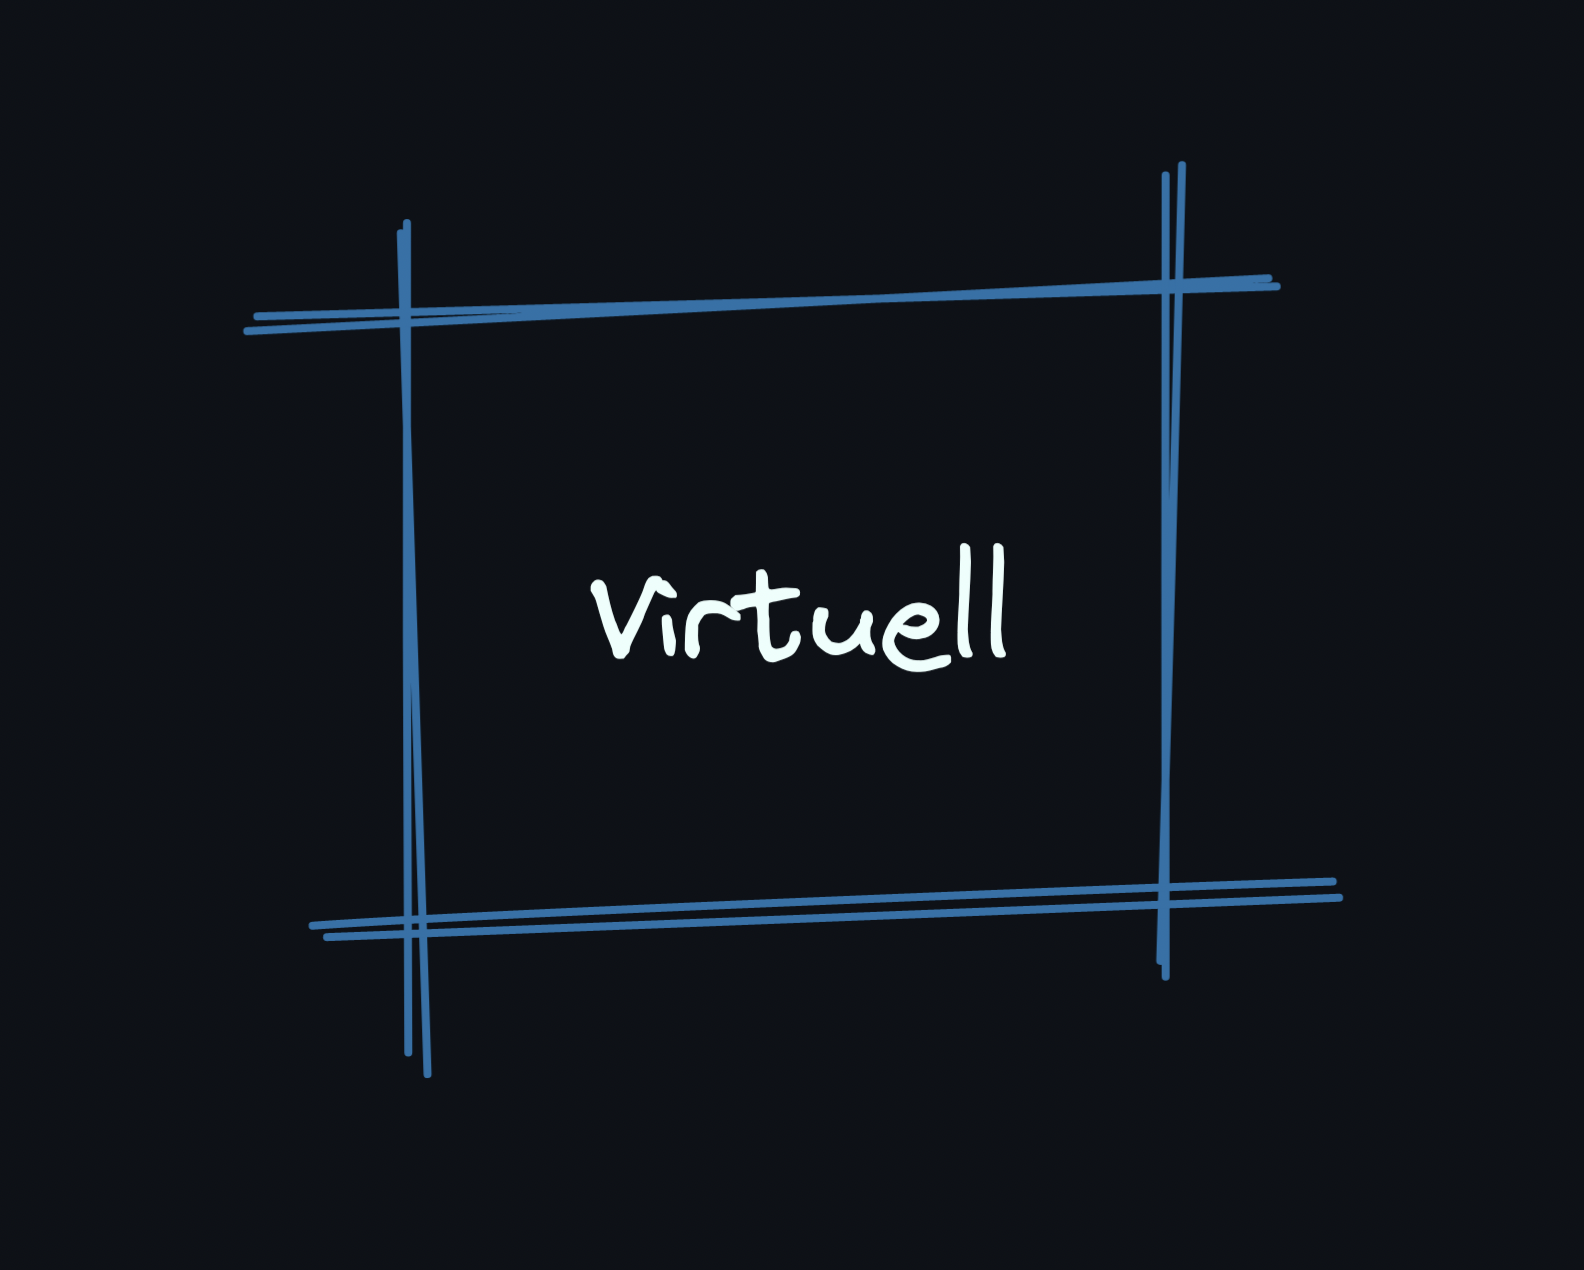
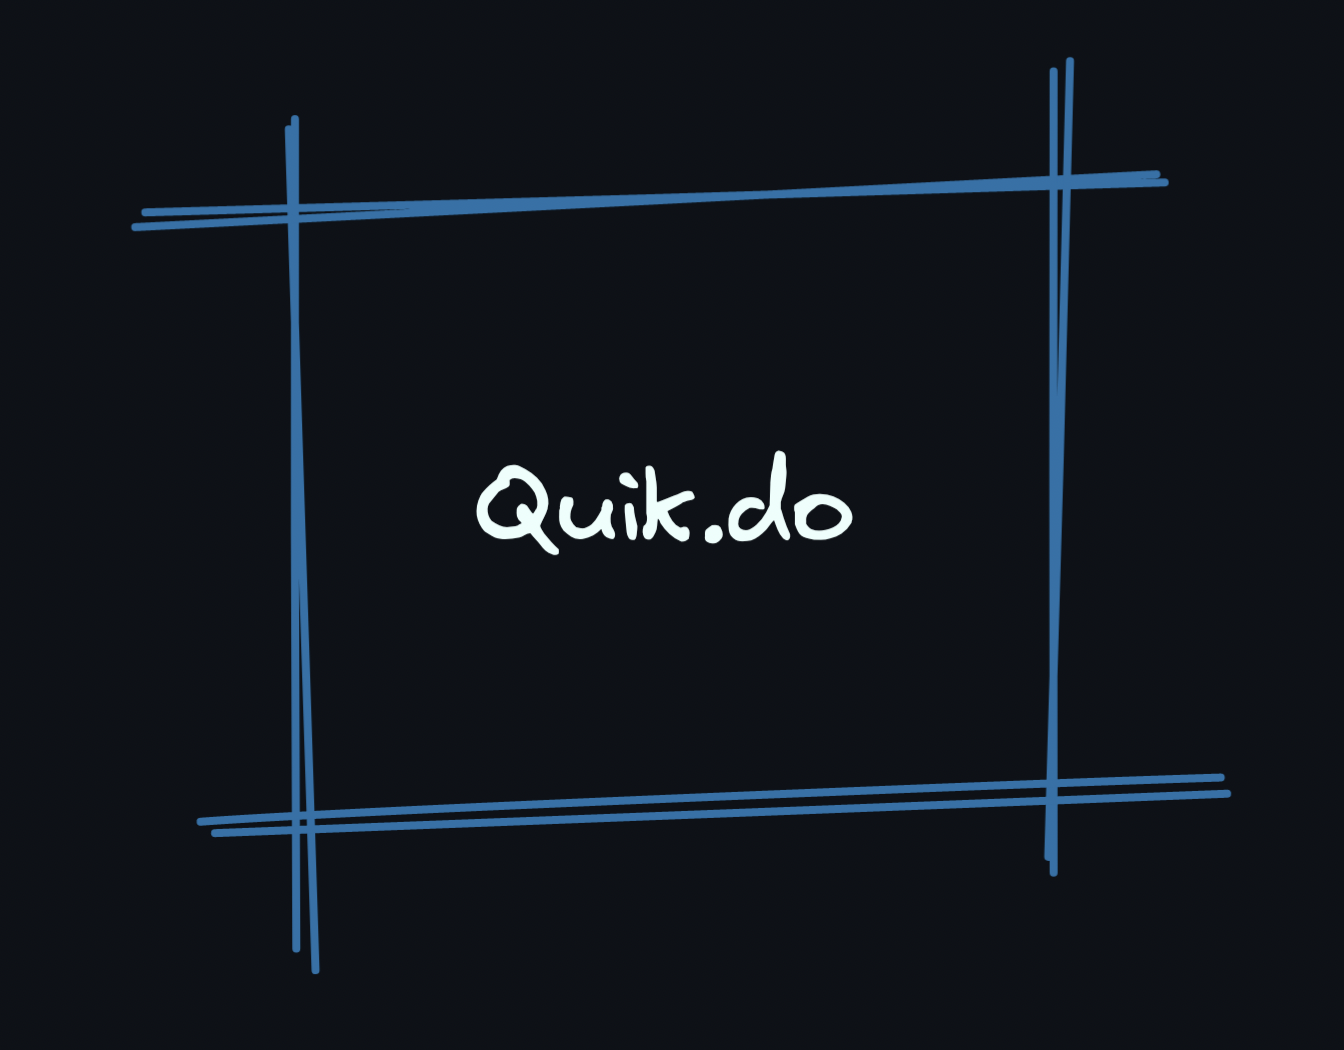
doc: change project name

Changed region(s): [[0.0938, 0.061, 0.9375, 0.9143], [0.3438, 0.4267, 0.6562, 0.5486]]

diff --git a/README.md b/README.md
@@ -1,9 +1,9 @@
-# Virtuell
+# Quik.do
 
 <div align="center">
 	<img height="300px" src="doc/banner.png">
 	<p>
-		<strong><code>Virtuell - v0.1.0</code></strong> <br>
+		<strong><code>Quik.do - v0.1.0</code></strong> <br>
 		talk, easily. <br>
 	</p>
 </div>
@@ -17,14 +17,14 @@ DO NOT USE IT.
 
 ## What
 
-Virtuell is a video conferencing tool.
+Quik.do is a video conferencing tool.
 
 ## Why
 
 We want to be able to talk in the simplest way. That's why we created Virtuell.
 
 **Accountless**  
-You don't need to create any account to use Virtuell. Just use it!
+You don't need to create any account to use Quik.do, Just use it!
 
 **No installation**  
 You don't need to install anything. Simply use it in your browser, in any device.
@@ -44,7 +44,7 @@ If you wish, you can run this application as self-hosted for your own domain.
 
 ## Behind
 
-Virtuell works on Pion ecosystem. Used technologies are below;
+Quik.do works on Pion ecosystem. Used technologies are below;
 
 - Pion/WebRTC
 - Pion/Turn
